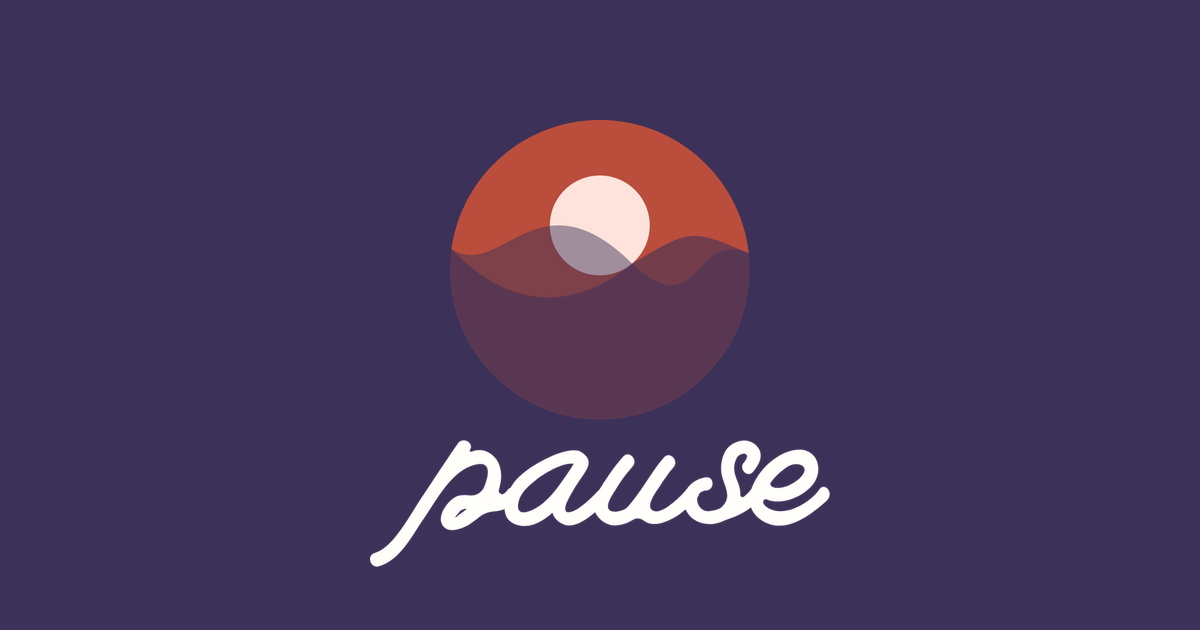
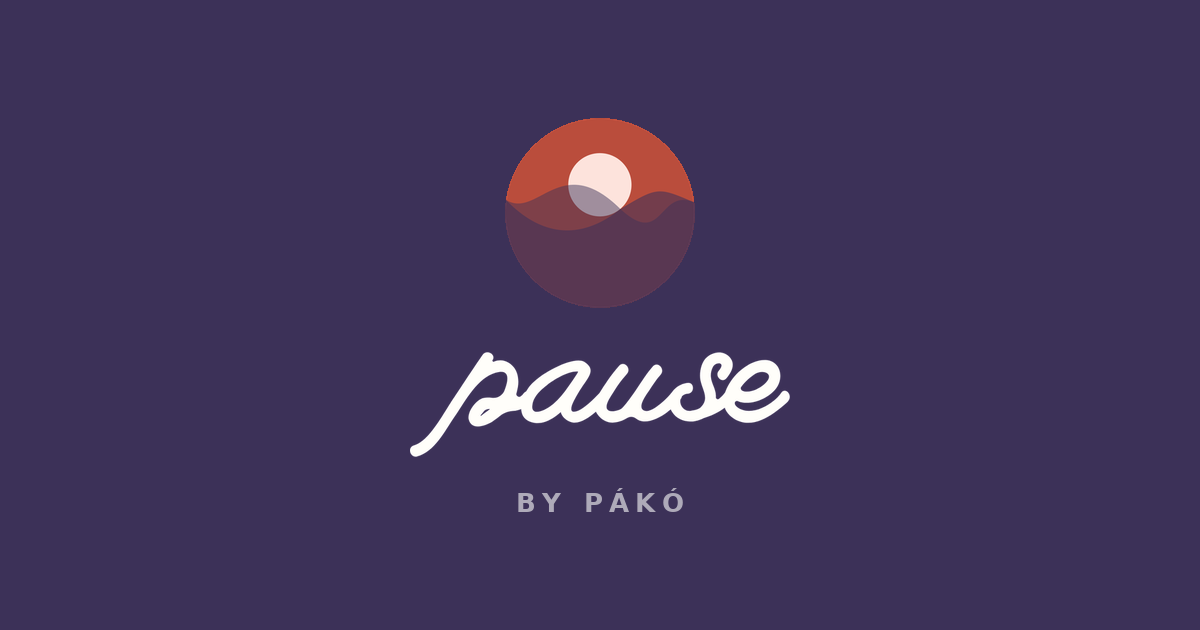
Social share image styled like the splash; absolute, versioned OG tags
Regenerates og-image.png (1200x630) to match the launch splash: deep
plum background, the circular sunset/wave mark, the pause wordmark, and
'by Pákó'. Switches og:image/twitter:image to absolute URLs (scrapers
need them) with a ?v=2 bust so platforms drop the old cached image, and
adds og:image width/height/alt.

Claude-Session: https://claude.ai/code/session_01U4uzK3ez2DmxaNRXz1hTcb

Changed region(s): [[0.3392, 0.2111, 0.7092, 0.8444], [0.3083, 0.8444, 0.3392, 0.9048], [0.4317, 0.2111, 0.4625, 0.2413]]

diff --git a/index.html b/index.html
@@ -10,13 +10,16 @@
 <link rel="manifest" href="/site.webmanifest">
 <meta property="og:title" content="Pause by Pákó">
 <meta property="og:description" content="Ride out a craving instead of fighting it. Nothing leaves your device.">
-<meta property="og:image" content="/og-image.png">
+<meta property="og:image" content="https://pause.pako.health/og-image.png?v=2">
+<meta property="og:image:width" content="1200">
+<meta property="og:image:height" content="630">
+<meta property="og:image:alt" content="Pause by Pákó">
 <meta property="og:type" content="website">
 <meta property="og:url" content="https://pause.pako.health">
 <meta name="twitter:card" content="summary_large_image">
 <meta name="twitter:title" content="Pause by Pákó">
 <meta name="twitter:description" content="Ride out a craving instead of fighting it. Nothing leaves your device.">
-<meta name="twitter:image" content="/og-image.png">
+<meta name="twitter:image" content="https://pause.pako.health/og-image.png?v=2">
 <meta name="apple-mobile-web-app-capable" content="yes">
 <meta name="description" content="Pause by Pákó. A craving is a wave. Watch it rise and pass. Everything stays on your device.">
 <title>Pause by Pákó</title>

diff --git a/src/pause.html b/src/pause.html
@@ -10,13 +10,16 @@
 <link rel="manifest" href="/site.webmanifest">
 <meta property="og:title" content="Pause by Pákó">
 <meta property="og:description" content="Ride out a craving instead of fighting it. Nothing leaves your device.">
-<meta property="og:image" content="/og-image.png">
+<meta property="og:image" content="https://pause.pako.health/og-image.png?v=2">
+<meta property="og:image:width" content="1200">
+<meta property="og:image:height" content="630">
+<meta property="og:image:alt" content="Pause by Pákó">
 <meta property="og:type" content="website">
 <meta property="og:url" content="https://pause.pako.health">
 <meta name="twitter:card" content="summary_large_image">
 <meta name="twitter:title" content="Pause by Pákó">
 <meta name="twitter:description" content="Ride out a craving instead of fighting it. Nothing leaves your device.">
-<meta name="twitter:image" content="/og-image.png">
+<meta name="twitter:image" content="https://pause.pako.health/og-image.png?v=2">
 <meta name="apple-mobile-web-app-capable" content="yes">
 <meta name="description" content="Pause by Pákó. A craving is a wave. Watch it rise and pass. Everything stays on your device.">
 <title>Pause by Pákó</title>
